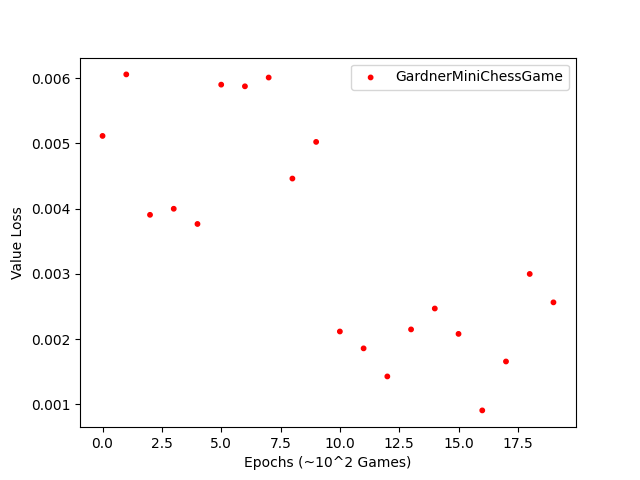
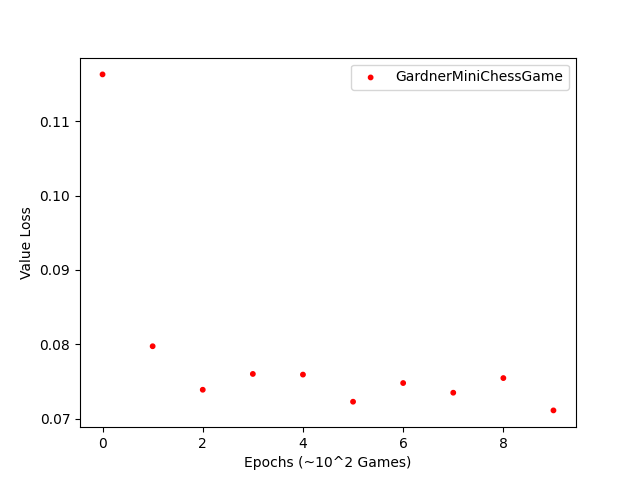
Restored README. Trained another Gardner model, stored results in gardner_extra_15

diff --git a/learning/alpha_zero/distributed/pytorch/NNet.py b/learning/alpha_zero/distributed/pytorch/NNet.py
@@ -1,4 +1,5 @@
 import copy
+from games.gardner.GardnerMiniChessGame import GardnerMiniChessGame
 import os
 import sys
 import time
@@ -15,14 +16,14 @@ import torch.optim as optim
 
 from .MCGardnerNNet import MCGardnerNNet as mcnet
 
-LEN_ACTION_SPACE = 1225
+# LEN_ACTION_SPACE = 1225
 
 class NNetWrapper(NeuralNet):
     def __init__(self, game, args):
         self.nnet = mcnet(game, args)
         self.game = game
         self.board_x, self.board_y = (5, 5)
-        self.action_size = LEN_ACTION_SPACE
+        self.action_size = GardnerMiniChessGame().getActionSize()
 
         self.args = args.copy()
 

diff --git a/README.md b/README.md
@@ -8,19 +8,29 @@ See also: [minichess](https://github.com/mdhiebert/minichess) and [gym-minichess
 
 - [Contents](#contents)
 - [Quickstart](#quickstart)
+  - [GCloud](#gcloud)
 - [Scripts](#scripts)
-	- [Train](#train)
-	[Test](#test)
-- [GCloud](#gcloud)
+  - [Train](#train)
+  - [Test](#test)
 - [Objective](#objective)
 - [Methodology](#methodology)
-	- [Action Space](#action-space)
-		- [Legality](#legality)
-	- [MCTS](#mcts)
+- [Environment](#environment)
+  - [Variants](#variants)
+  - [minichess](#minichess)
+  - [gym-minichess](#gym-minichess)
+  - [Action Space](#action-space)
+    - [Legality](#legality)
+  - [Learning](#learning)
+    - [Single-Variant Training Architecture](#single-variant-training-architecture)
+    - [Multi-Variant Training Architecture](#multi-variant-training-architecture)
+    - [MetaFocus Training Architecture](#metafocus-training-architecture)
+  - [MCTS](#mcts)
 - [Result Log](#result-log)
-    - [Naïve Opening](#naïve-opening)
+  - [Naïve Opening](#naïve-opening)
 - [Changelog](#changelog)
 - [References](#references)
+- [Appendix](#appendix)
+  - [MCTS Pseudocode](#mcts-pseudocode)
 
 ## Quickstart
 
@@ -281,9 +291,42 @@ JOAT1 and JOAT2 vs random, greedy, etc. show superiority
 
 ## Objective
 
-TODO
+In practical application, one of the most compelling aspects of human intelligence is its adaptability. With strategy games, like chess (or its smaller variant, minichess), the value of this aspect shines most brightly in situations where rules are not static from game to game. In chess, these dynamic conditions manifest themselves as [variants of standard play](https://en.wikipedia.org/wiki/List_of_chess_variants). In real life, they may manifest themselves as changing weather or terrain conditions, or other unforeseen and sudden human/machine limitations.
+ 
+State of the art reinforcement learning models are able to achieve superhuman performance under static conditions. [AlphaZero](https://arxiv.org/pdf/1712.01815.pdf), and its successor, [MuZero](https://arxiv.org/pdf/1911.08265.pdf), have attained practically-perfect levels of skill in games like Chess, Shogi, and Go. This performance quickly deteriorates when the rules they were trained under are altered. An AlphaZero model exhibiting perfect play in [Gardner minichess](https://en.wikipedia.org/wiki/Minichess#5%C3%975_chess), say, loses TODO% of its games against a random player in variants of the game like [Atomic chess](https://en.wikipedia.org/wiki/Atomic_chess).
+ 
+To this end, we seek to create a meta-learning framework around a modified [implementation of AlphaZero](https://github.com/suragnair/alpha-zero-general) in order to train a meta-model which can identify changing conditions and provide a learning model which can quickly (≤1 AlphaZero iteration) adapt to and excel under them.
 
 ## Methodology
+
+### Environment
+ 
+Much of the initial effort was spent creating an environment to facilitate our minichess meta/reinforcement learning experiments. There were no pre-existing libraries that supported the rule variants of minichess, so we created our own.
+
+#### Variants
+ 
+We set out to implement several different variants of standard [Gardner minichess](https://en.wikipedia.org/wiki/Minichess#5%C3%975_chess):
+ 
+- [Baby Chess](https://en.wikipedia.org/wiki/Minichess#5%C3%975_chess) - a variant with the same rules, but a different starting configuration.
+- [Mallet Chess](https://en.wikipedia.org/wiki/Minichess#5%C3%975_chess) - another variant with the same rules, but a different starting configuration.
+- [Rifle Chess](https://www.chessvariants.com/difftaking.dir/rifle.html) - standard starting configuration, but captures happen "at range", where the capturing piece does not occupy the tile of the captured piece
+- [Atomic Chess](https://en.wikipedia.org/wiki/Atomic_chess) - standard starting configuration, but captures also remove the capturing piece and all non-pawn pieces surrounding the captured piece
+- [Monochromatic Chess](https://en.wikipedia.org/wiki/Monochromatic_chess) - standard starting configuration, but pieces can only move to tiles that share the color of the tile they started on
+- [Bichromatic Chess](https://en.wikipedia.org/wiki/Monochromatic_chess#Bichromatic_chess) - standard starting configuration, but pieces can only move to tiles that have the opposite color of their current tile
+- [Dark Chess](https://en.wikipedia.org/wiki/Dark_chess) - standard starting configuration, but a player can only see their own pieces and tiles that their pieces can move to, the rest remain "dark"
+- [Extinction Chess](https://en.wikipedia.org/wiki/Extinction_chess) - standard starting configuration but the victory conditions are changed, the first player to remove all of any one kind of piece from their opponent (e.g. capturing the king, or both rooks, all pawns) wins.
+
+#### minichess
+ 
+The first repository, [minichess](https://github.com/mdhiebert/minichess), was created to handle the game logic of our base ruleset, Gardner's Minichess, and several others. We implemented Gardner, Baby, Mallet, Dark, Rifle, Atomic, Monochromatic, and Bichromatic.
+ 
+Wrappers for these are implemented in `./games`. The wrapper for gardner, baby, and mallet were borrowed (with slight modification) from [Karthik Selva's fork of alpha-zero-general](https://github.com/karthikselva/alpha-zero-general).
+ 
+#### gym-minichess
+ 
+We also created an OpenAI gym environment for minichess, found at [gym-minichess](https://github.com/mdhiebert/gym-minichess).
+ 
+Work on this was halted as we pivoted towards experiments not relying on the gym substructure.
 
 ### Action Space
 
@@ -299,6 +342,107 @@ This gives us 5x5x(8x4 + 8 + 3x3) = 1225 possible actions to choose from.
 #### Legality
 
 Of course. Not all moves are valid at every step. To account for this, we simply apply a mask over illegal moves to our networks output and re-normalize.
+
+### Learning
+ 
+The first step was to train an expert-level Gardner minichess model to serve as the base of future adaptable models. The intuition was that since it had mastered the standard ruleset, its understanding of the innate mechanisms of minichess would enable it to learn other rulesets more quickly than from scratch.
+ 
+As such, we relied on the `alpha-zero-general` implementation of AlphaZero mentioned above to serve as our inner loop for AlphaZero iterations. *However*, at the time of this project, the repository did not support distributed computation, resulting in extremely slow training. To remedy this, we modified the pipeline to allow for multiprocessing. This modified system can be found in `learning/alpha_zero/distributed`.
+ 
+We thus had the following training architecture for learning on single variants:
+ 
+#### Single-Variant Training Architecture
+ 
+![assets/svta_arch.png](assets/svta_arch.png)
+ 
+TODO
+ 
+#### Multi-Variant Training Architecture
+ 
+![assets/mvta_arch.png](assets/mvta_arch.png)
+ 
+Our meta-training architecture for multiple variants is very similar to [MAML for RL](https://arxiv.org/pdf/1703.03400.pdf), and was inspired by a project done for [MIT's 6.882](https://phillipi.github.io/6.882/2019/) in Spring of 2019: [INSECT](https://echen9898.github.io/assets/2019-05-18/882_Report.pdf). The double gradient loop of MAML requires many self-play iterations, which prove to be the most costly portion of the training loop. By removing the second gradient loop and instead taking an average over the policies found in the inner loop, we cut down on a significant amount of training time. In exposing our model to our distribution of tasks by sampling a rule-variant and running it through our SVTA, we aim to produce a Jack-of-All-Trades (JOAT) model that can quickly adapt to different variants.
+ 
+In pseudocode:
+ 
+```python
+policy = random_init_policy()
+ 
+while not done:
+ 
+tasks = sample(task_distribution)
+ 
+policies_prime = []
+ 
+for task in tasks:
+loss = 0
+for _ in range(K):
+loss += mcts_iteration(policy)
+ 
+policy_prime = policy - (alpha * gradient(loss))
+ 
+policies_prime.append(policy_prime)
+ 
+policy = average(policies_prime)
+ 
+return policy
+```
+ 
+This implementation can be found at `JOATCoach.metatrain()` in `learning/alpha_zero/distributed/joat_coach.py`
+ 
+The results of our metatraining can be seen in [results](#results).
+ 
+In addition, we also tried to tackle this problem from a different angle, using [controlled dropout](https://github.com/kobiso/Controlled-Dropout) to improve performance across varying rulesets:
+ 
+#### MetaFocus Training Architecture
+ 
+![assets/mmvta_arch.png](assets/mmvta_arch.png)
+ 
+TODO
+
+## Result Log
+ 
+### Model vs Random (Atomic)
+```
+♜ ♞ ♝ ♛ ♚
+♟ ♟ ♟ ♟ ♟
+⊙ ⊙ ⊙ ⊙ ⊙
+♙ ♙ ♙ ♙ ♙
+♖ ♘ ♗ ♕ ♔
+ 
+♜ ♞ ♝ ♛ ♚
+♟ ♟ ♟ ♟ ♟
+⊙ ⊙ ⊙ ⊙ ♙
+♙ ♙ ♙ ♙ ⊙
+♖ ♘ ♗ ♕ ♔
+ 
+♜ ♞ ♝ ♛ ♚
+♟ ♟ ⊙ ♟ ♟
+⊙ ⊙ ♟ ⊙ ♙
+♙ ♙ ♙ ♙ ⊙
+♖ ♘ ♗ ♕ ♔
+ 
+♜ ♞ ♝ ♛ ♚
+♟ ♟ ⊙ ♟ ♟
+⊙ ⊙ ♟ ⊙ ♙
+♙ ♙ ♙ ♙ ♕
+♖ ♘ ♗ ⊙ ♔
+ 
+♜ ♞ ♝ ⊙ ♚
+♟ ♟ ⊙ ♟ ♟
+⊙ ⊙ ♟ ⊙ ♙
+⊙ ♙ ♙ ♙ ♕
+⊙ ⊙ ♗ ⊙ ♔
+ 
+♜ ♞ ⊙ ⊙ ⊙
+♟ ♟ ⊙ ⊙ ♟
+⊙ ⊙ ♟ ⊙ ⊙
+⊙ ♙ ♙ ♙ ♕
+⊙ ⊙ ♗ ⊙ ♔
+ 
+WHITE WIN
+```
+
 
 ### MCTS
 
@@ -380,36 +524,14 @@ if s not in P_s:
 
 ```
 
-## Result Log
-
-### Naïve Opening
-```
-[♜][♞][♝][♛][♚]
-[♟][♟][♟][♟][♟]
-[ ][ ][ ][ ][ ]
-[♙][♙][♙][♙][♙]
-[♖][♘][♗][♕][♔]
-
-[♜][♞][♝][♛][♚]
-[♟][♟][♟][♟][♟]
-[ ][ ][ ][ ][♙]
-[♙][♙][♙][♙][ ]
-[♖][♘][♗][♕][♔]
-
-[♜][♞][♝][♛][♚]
-[♟][♟][♟][ ][♟]
-[ ][ ][ ][ ][♟]
-[♙][♙][♙][♙][ ]
-[♖][♘][♗][♕][♔]
-
-[♜][♞][♝][♛][♚]
-[♟][♟][♟][ ][♟]
-[ ][ ][♙][ ][♟]
-[♙][♙][ ][♙][ ]
-[♖][♘][♗][♕][♔]
-```
-
 ## Changelog
+
+*[11/26]* Trained Gardner model and subsequent meta model. Took ~30 hours all-in-all. Gardner iterations take substantially more time only because of hyperparameters (20 episodes / meta-task vs 100 episodes / gardner-task). We will likely bump this up if results are not satisfactory.
+ 
+*[11/25]* Bug fixes and more training. Created diagrams and added significant information to the README.
+ 
+Implemented new JOAT training loop based on MAML/INSECT.
+
 *[11/24]* Added `scripts/train.py` to facilitate training. Added ability to bypass Arena play and evaluate against random/greedy benchmarks. Modified all games to produce greedy/random players for evaluation.
 
 *[11/23]* Implemented distributed self-play and arena-play.
@@ -453,3 +575,85 @@ Error confirmed for Windows, even with running out-of-box experiments.
 - Meta-World: A Benchmark and Evaluation for Multi-Task and Meta Reinforcement Learning - T. Yu, D. Quillen et al. ([paper](https://arxiv.org/pdf/1910.10897v1.pdf))
 	- Defined 'Meta-World' as task distribution
 	- Utilize as model to define task/rules distribution of different chess piece rule sets
+
+## Appendix
+ 
+### MCTS Pseudocode
+ 
+Pseudocode base off of [alpha-zero-general](https://github.com/suragnair/alpha-zero-general/blob/master/MCTS.py) implementation.
+```
+game <- game()
+net <- net()
+ 
+Q_sa <- {} # stores Q values for s,a (as defined in the paper)
+N_sa <- {} # stores #times edge s,a was visited
+N_s <- {} # stores #times board s was visited
+P_s <- {} # stores initial policy (returned by neural net)
+E_s <- {} # stores game.getGameEnded ended for board s
+V_s <- {} # stores game.getValidMoves for board s
+ 
+board <- current board
+ 
+for iteration in NUM_MCTS_ITERATIONS:
+  search(board)
+ 
+counts <- number of times each action was visited from state board
+ 
+if temp = 0:
+  bestAs <- actions with max count
+  bestA <- sample(bestAs)
+ 
+  return onehot of len(ACTION_SPACE) with idx bestA = 1
+ 
+counts <- [x ** (1. / temp) for x in counts]
+ 
+return counts / sum(counts) # probabilities
+ 
+ 
+### SEARCH(board)
+ 
+state <- board
+ 
+if state not in E_s:
+  E_s[state] <- status of game
+ 
+if state.status != ONGOING:
+  return -1 * (value of status)
+ 
+if s not in P_s:
+  P_s[s] <- net(board) # network prediction of board
+  valid <- all current legal moves from state
+  
+  # mask invalid moves
+  # renormalize
+ 
+  if all moves were masked:
+    P_s[s] <- (P_s[s] + valids) / P_s[s]
+ 
+  V_s[s] <- valids
+ 
+  # pick action with highest upper confidence bound
+  for action in actions:
+    if action is valid:
+      if (s,a) in Q_sa:
+        u <- Q_sa[sa] + CPUCT + P_s[s][action] * sqrt(N_s[s]) / (1 + N_sa[sa])
+      else:
+        u <- CPUCT * P_s[s][action] * sqrt(N_s[s] + eps)
+ 
+  state <- apply best action to current state
+ 
+  search(state)
+ 
+  if (state, action) in Q_sa:
+    Q_sa[(s, a)] <- (N_sa[(s, a)] * Q_sa[(s, a)] + v) / (N_sa[(s, a)] + 1)
+    N_sa[(s, a)] <- N_sa[(s, a)] + 1
+ 
+  else:
+    Q_sa[(s,a)] <- v
+    N_sa[(s,a)] <- 1
+ 
+  N_s[s] <- N_s + 1
+ 
+  return -v
+ 
+```
